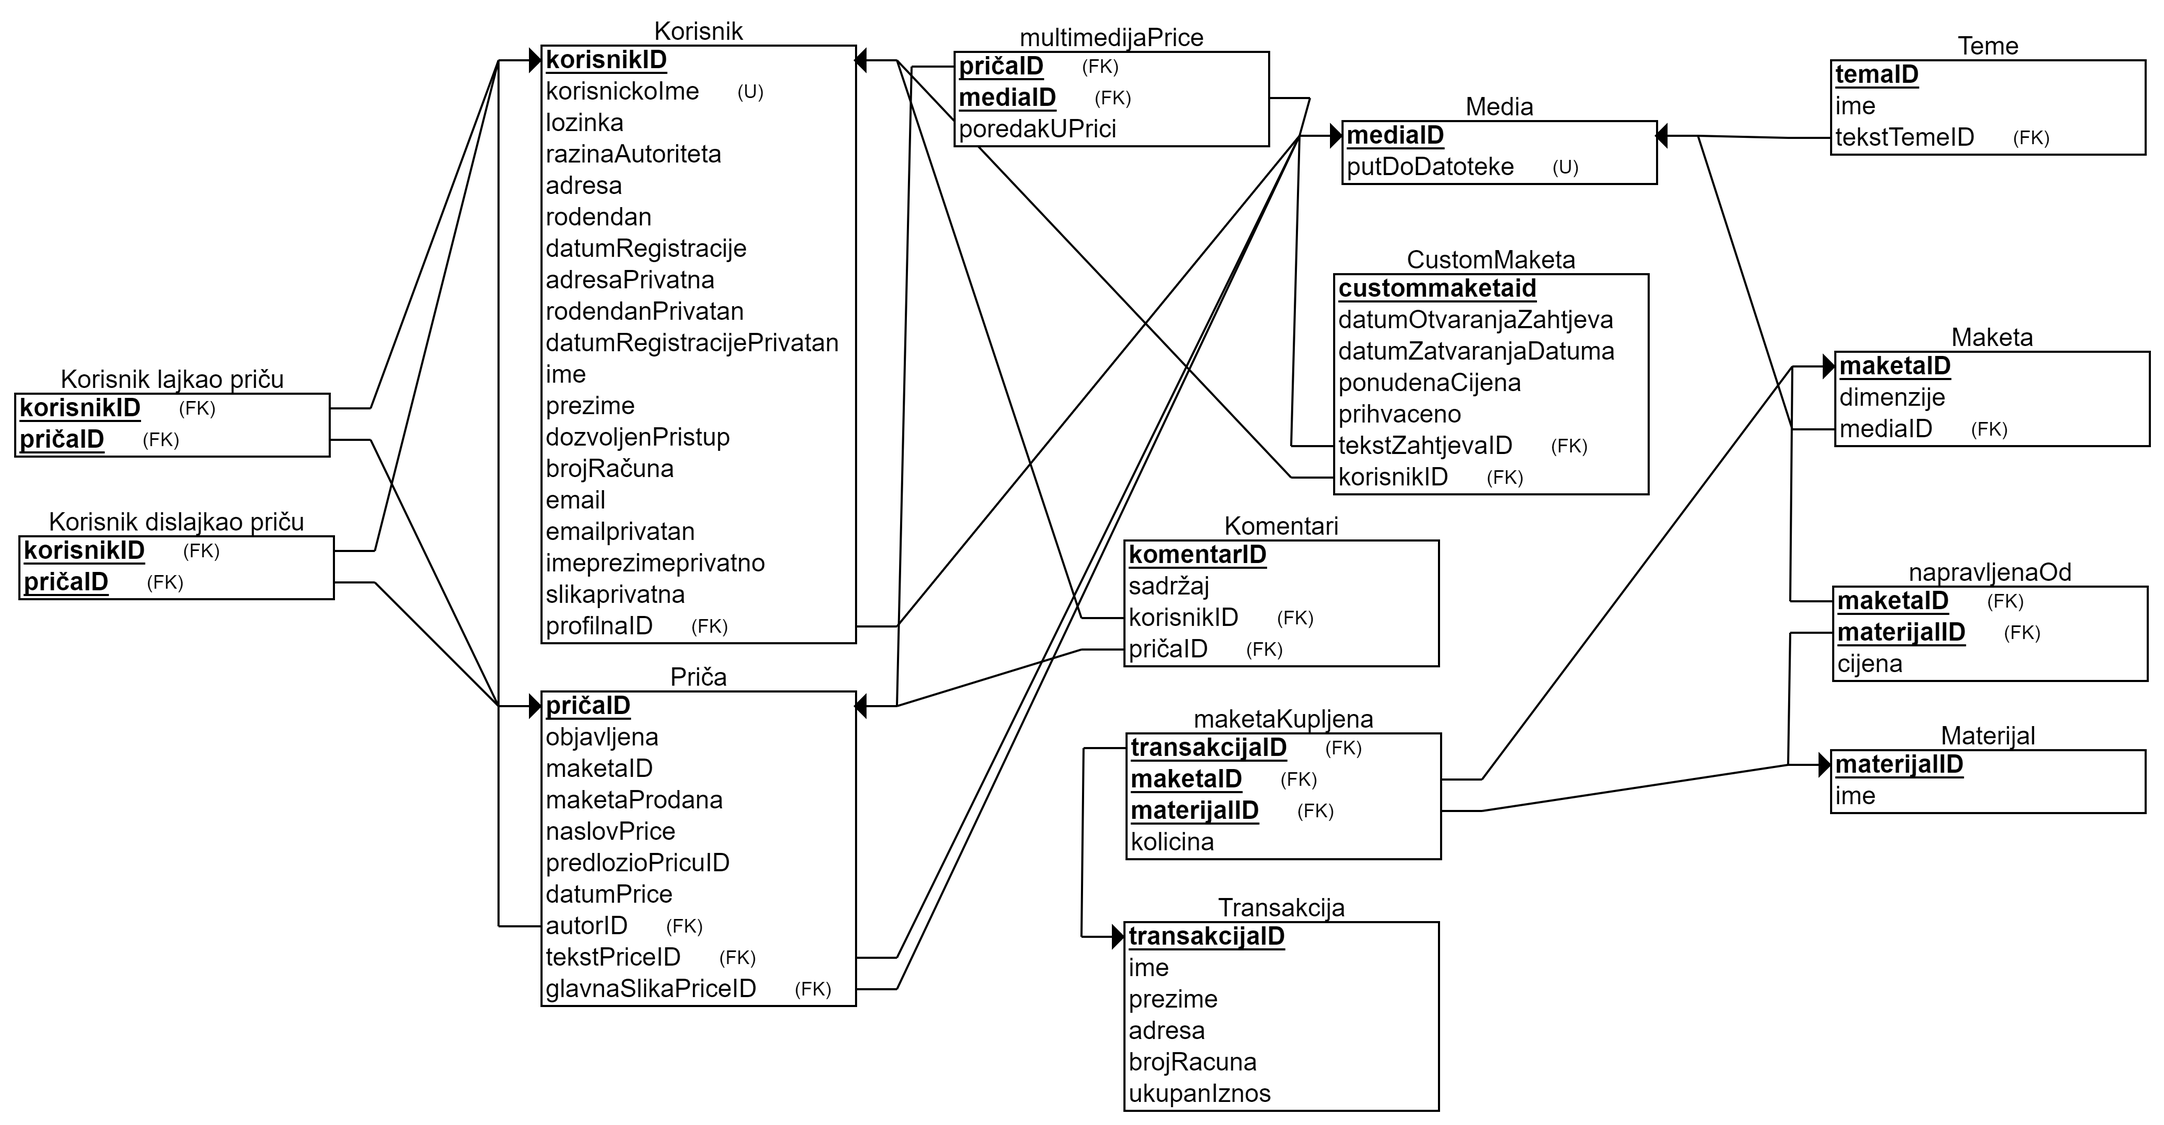
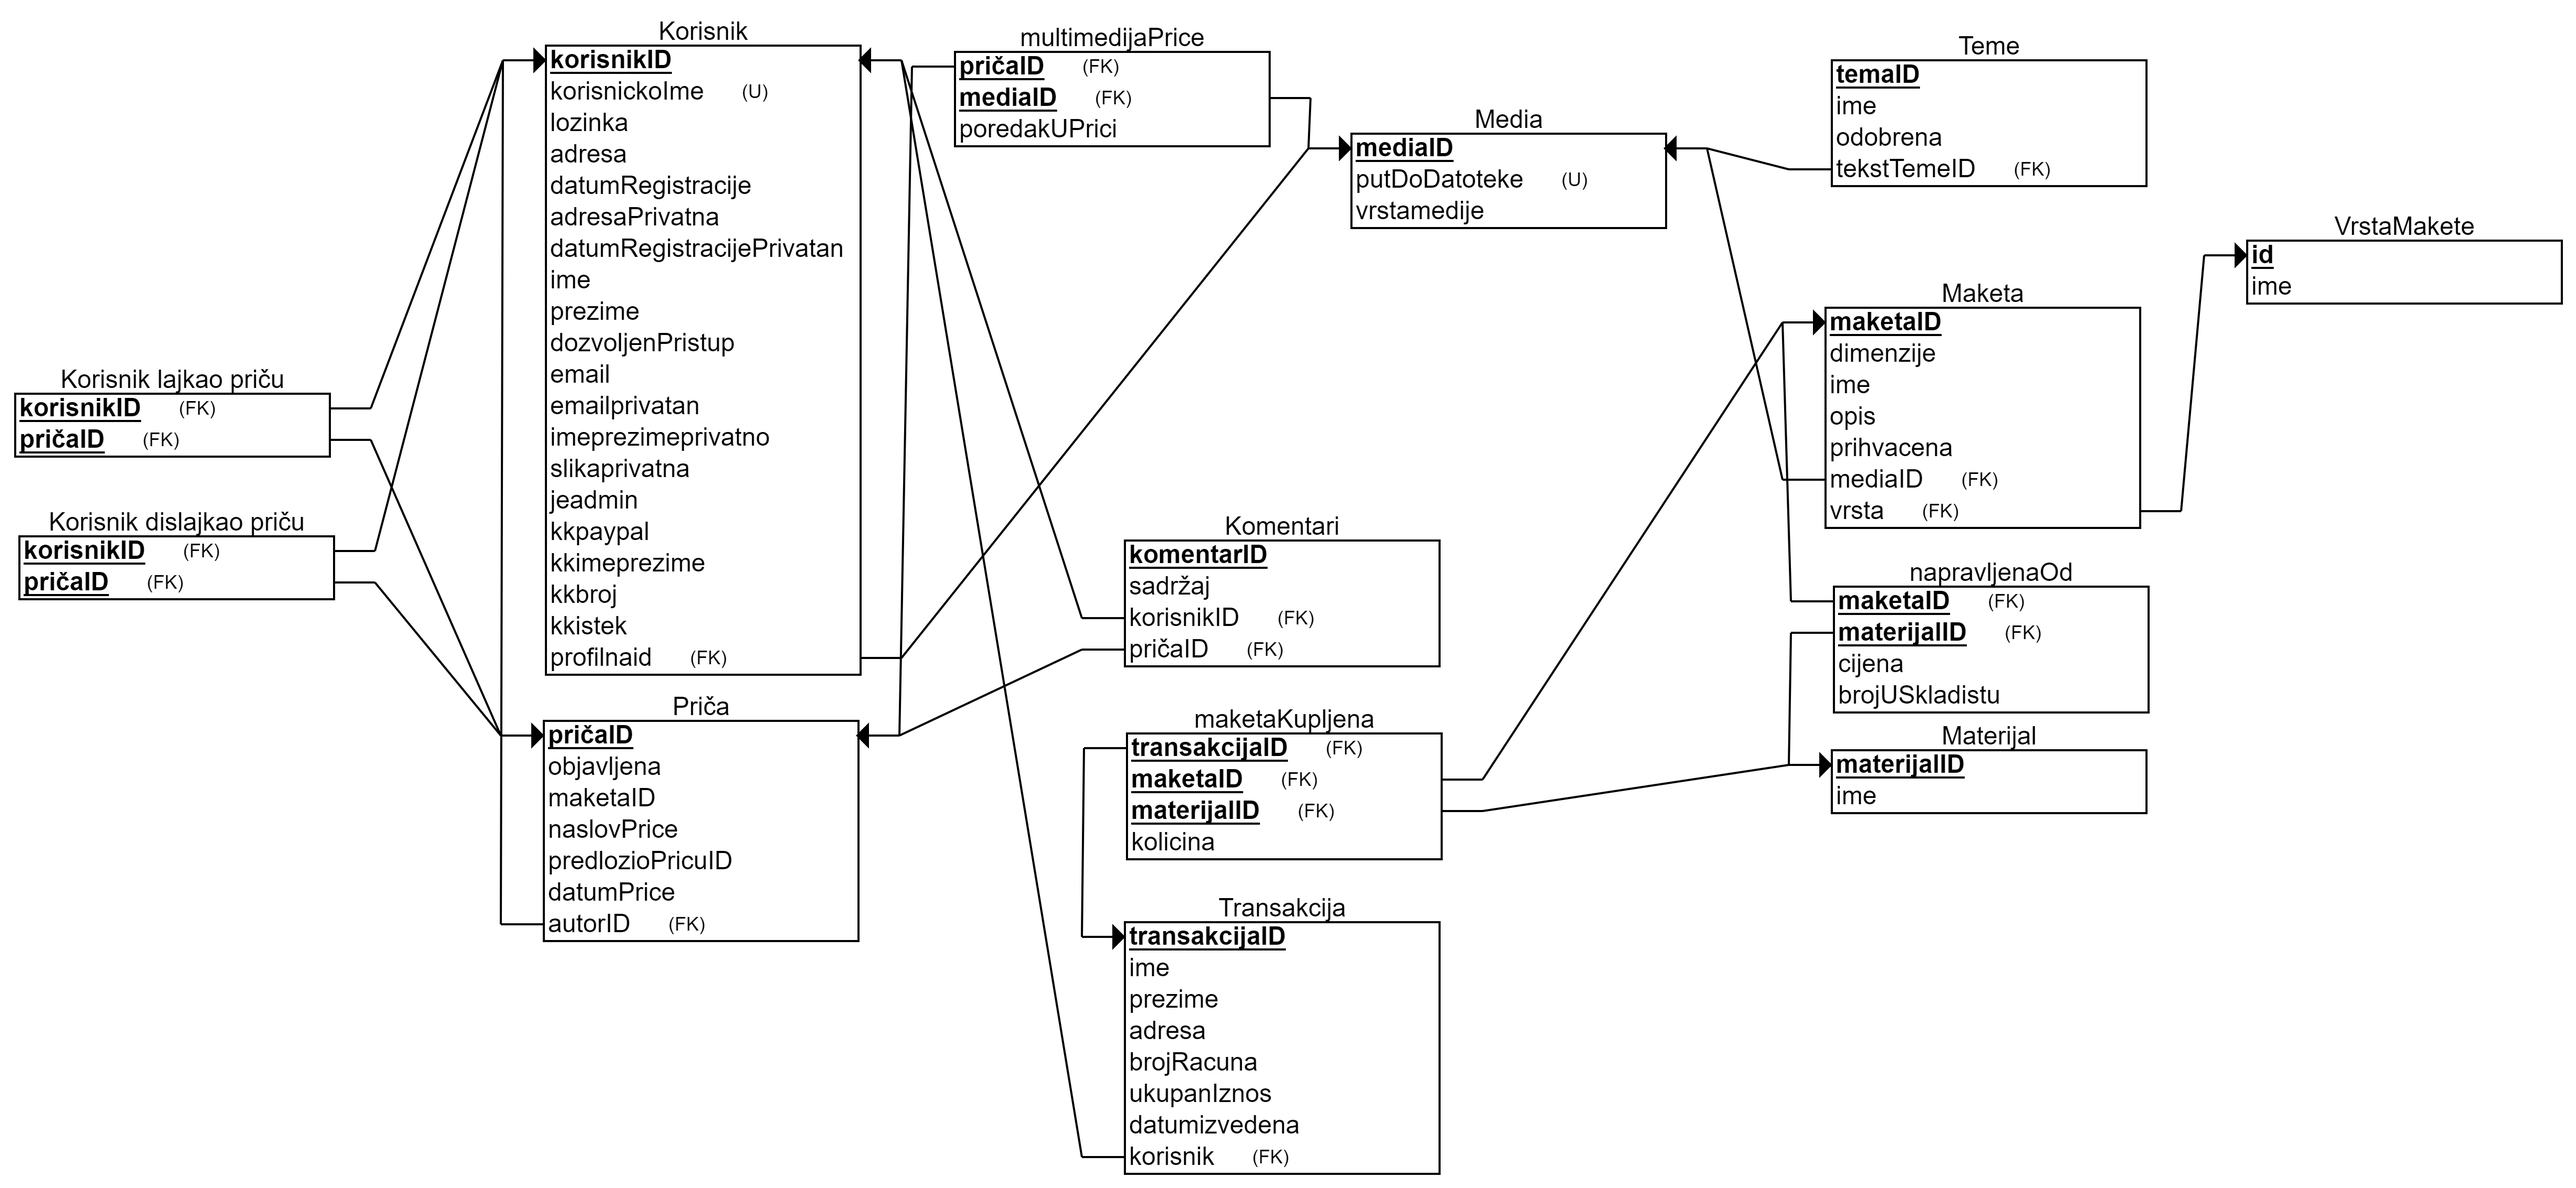
Baza dokumentacija

diff --git a/dokumentacija/Arhitektura.tex b/dokumentacija/Arhitektura.tex
@@ -53,22 +53,26 @@
 					email	& VARCHAR &  Korisnikov e-mail  (maksimalno 100 znakova). \\ \hline
 					korisnickoime & VARCHAR & Ime koje predstavlja korisnika na stranici (maksimalno 20 znakova). \\ \hline 
 					lozinka & VARCHAR & Korisnikova lozinka za prijavu (maksimalno 20 znakova).  \\ \hline 
-					razinaautoriteta & INT & Razina autoriteta korisnika. 1 predstavlja korisnika, a 2 admina. \\ \hline 
-					adresa & VARCHAR & Korisnikova adresa (maksimalno 100 znakova). \\ \hline 
-					rodendan & DATE & Datum korisnikovog rođendana.  \\ \hline 
+					jeadmin & BOOL & Ima li korisnik ovlasti administratora? \\ \hline 
+					adresa & VARCHAR & Korisnikova adresa (maksimalno 100 znakova). \\ \hline  
 					datumregistracije & DATE & Datum korisnikove registracije.  \\ \hline 
 					adresaprivatna & BOOL & Želi li korisnik javno prikazati svoju adresu na svome profilu? \\ \hline 
-					rodendanprivatan & BOOL & Želi li korisnik javno prikazati svoj rođendan na svome profilu?   \\ \hline
 					datumregistracije
 					privatan & BOOL & Želi li korisnik javno prikazati svoj datum registracije na svome profilu?  \\ \hline 
+					slikaprivatna & BOOL & Želi li korisnik javno prikazati svoju slie ime i prezime?  \\ \hline 
+					emailprivatan & BOOL & Želi li korisnik javno prikazati svoj e-mail na svome profilu?   \\ \hline 
+					imeprezimeprivatno & BOOL & Želi li korisnik javno prikazati svoje ime i prezime na svome profilu?  \\ \hline 	 
 					ime & VARCHAR &  Korisnikovo ime (maksimalno 50 znakova).  \\ \hline 
 					prezime  & VARCHAR & Korisnikovo prezime (maksimalno 50 znakova).  \\ \hline 
 					dozvoljenpristup & BOOL & Ima li korisnik dozvoljen pristup stranici?  \\ \hline 
-					brojracuna & VARCHAR & Broj bankovnog računa korisnika. (21 znak)  \\ \hline
+					kkpaypal & BOOL & Plaća li korisnik paypalom?  \\ \hline 
+					kkbroj & VARCHAR & Broj kreditne kartice korisnika. (16 znakova)  \\ \hline
+					kkimeprezime & VARCHAR & Ime i prezime na kreditnoj kartici korisnika. (maksimalno 100 znakova)  \\ \hline
+					kkistek & VARCHAR & Mjesec i godina isteka kreditne kartice. (5 znakova)  \\ \hline
+					\cellcolor{LightBlue} 
 					\cellcolor{LightBlue} 
 					profilnaid & INT & Redni broj medijske datoteke koja sadrži korisnikovu profilnu fotografiju. (strani ključ)  \\ \hline 
-					emailprivatan & BOOL & Želi li korisnik javno prikazati svoj e-mail na svome profilu?   \\ \hline 
-					imeprezimeprivatno & BOOL & Želi li korisnik javno prikazati svoje ime i prezime na svome profilu?  \\ \hline 					
+									
 					
 				\end{longtabu}
 			
@@ -102,7 +106,7 @@
 				
 				\hline 
 				\endlastfoot
-				
+				\cellcolor{LightGreen}id & INT	&  	Redni broj unosa. (primarni ključ)	\\ \hline
 				\cellcolor{LightBlue}
 				korisnikid & INT & Redni broj korisnika koji je označio sa "ne sviđa mi se". (strani ključ) \\ \hline 
 				\cellcolor{LightBlue}
@@ -121,6 +125,7 @@
 					\hline 
 					\endlastfoot
 					
+					\cellcolor{LightGreen}id & INT	&  	Redni broj unosa. (primarni ključ)	\\ \hline
 					\cellcolor{LightBlue}
 					korisnikid & INT & Redni broj korisnika koji je označio priču sa "sviđa mi se". (strani ključ) \\ \hline 
 					\cellcolor{LightBlue}
@@ -140,10 +145,15 @@
 				\endlastfoot
 				
 				\cellcolor{LightGreen}maketaid & INT	&  	Redni broj makete (primarni ključ). 	\\ \hline
-				\cellcolor{LightBlue}
+				ime & VARCHAR & Ime makete. (100 znakova) \\ \hline 
 				dimenzije & VARCHAR & Dimenzije makete u centimetrima. \\ \hline 
+				opis & VARCHAR & Opis makete. (160 znakova) \\ \hline 
 				\cellcolor{LightBlue}
 				mediaid & INT & Redni broj medijske datoteke koja sadrži sliku makete. (strani ključ) \\ \hline 	
+				\cellcolor{LightBlue}
+				vrsta & INT & Vrsta makete. (strani ključ) \\ \hline 
+				prihvacena & BOOL & Je li maketa prihvaćena?  \\ \hline 
+					
 				
 			\end{longtabu}
 		
@@ -165,7 +175,7 @@
 				\cellcolor{LightBlue}
 				materijalid & INT & Redni broj materijala od kojeg je izgrađena navedena maketa. (strani ključ) \\ \hline 	
 				\cellcolor{LightBlue}
-				maketaid & INT & Redni broj transakcije u pitanju. (strani ključ) \\ \hline 
+				transakcijaid & INT & Redni broj transakcije u pitanju. (strani ključ) \\ \hline 
 				
 			\end{longtabu}
 		
@@ -196,7 +206,8 @@
 			\hline 
 			\endlastfoot
 			
-			\cellcolor{LightGreen}mediaid & INT	&  	Redni broj medijske datoteke (primarni ključ). 	\\      \hline			
+			\cellcolor{LightGreen}mediaid & INT	&  	Redni broj medijske datoteke (primarni ključ). 	\\      \hline		
+			vrstamedije & VARCHAR & Tip datoteke. (slika, tekst, video) \\ \hline 	
 			putdodatoteke & VARCHAR & Relativni put do datoteke u repozitoriju. \\ \hline 
 			
 			\end{longtabu}
@@ -211,7 +222,7 @@
 				
 				\hline 
 				\endlastfoot
-						
+				\cellcolor{LightGreen}id & INT	&  	Redni broj multimedije u priči. (primarni ključ). 	\\      \hline			
 				poredakuprici & INT & Broj u poretku po kojem se slaže multimedija u nekoj priči. \\ \hline 
 				\cellcolor{LightBlue}
 				mediaid & INT & Redni broj medijske datoteke u pitanju. (strani ključ) \\ \hline 
@@ -230,12 +241,13 @@
 			
 			\hline 
 			\endlastfoot
-						
+			\cellcolor{LightGreen}id & INT	&  	Redni broj unosa. (primarni ključ). 	\\      \hline			
 			cijena & FLOAT & Cijena makete napravljene od specifičnog materijala. \\ \hline 
 			\cellcolor{LightBlue}
 			maketaid & INT & Redni broj makete u pitanju. (strani ključ) \\ \hline 
 			\cellcolor{LightBlue}
 			materijalid & INT & Redni broj materijala u pitanju. (strani ključ) \\ \hline 
+			brojuskladistu & INT & Broj dostupnih maketa u skladištu. \\ \hline 
 			
 		\end{longtabu}
 	
@@ -254,15 +266,12 @@
 				naslovprice & VARCHAR & Naslov priče (maksimalno 100 znakova). \\ \hline 
 				datumprice & DATE & Datum objave priče. \\ \hline
 				objavljena & BOOL & Je li priča objavljena? \\ \hline 
-				maketaprodana & BOOL & Je li maketa iz priče (ako priča sadrži maketu) prodana? \\ \hline 
 				\cellcolor{LightBlue}
 				maketaid & INT & Redni broj makete u pitanju. (strani ključ) \\ \hline 
 				\cellcolor{LightBlue}
 				autorid & INT & Redni broj autora priču. (strani ključ) \\ \hline 
 				\cellcolor{LightBlue}
-				predloziopricuid & INT & Redni broj osobe koja je predložila priču. (strani ključ) \\ \hline 
-				\cellcolor{LightBlue}
-				tekstpriceid & INT & Redni broj medijske datoteke koja sadrži tekst priče. (strani ključ) \\ \hline 
+				predloziopricuid & INT & Redni broj osobe koja je predložila priču. (strani ključ)
 				
 			\end{longtabu}
 		
@@ -281,6 +290,7 @@
 			ime & VARCHAR & Ime teme (maksimalno 100 znakova). \\ \hline 		
 			\cellcolor{LightBlue}
 			teksttemeid & INT & Redni broj medijske datoteke koja sadrži tekst teme. (strani ključ) \\ \hline 
+			odobrena & BOOL & Je li priča objavljena? \\ \hline 
 			
 		\end{longtabu}
 	
@@ -301,32 +311,24 @@
 			adresa & VARCHAR & Adresa kupca (maksimalno 100 znakova). \\ \hline 	
 			brojracuna & VARCHAR & Broj računa kupca ( 21 znak). \\ \hline 	
 			ukupaniznos & FLOAT & Ukupan iznos transakcije \\ \hline 
+			\cellcolor{LightBlue}
+			korisnik & INT & Redni broj korisnika koji je pokrenuo transakciju. (strani ključ) \\ \hline 
+			datumizvedena & DATE & Datum transakcije.  \\ \hline 
 			
 		\end{longtabu}
 	
 		\begin{longtabu} to \textwidth {|X[10, l]|X[6, l]|X[20, l]|}
 			
-			\hline \multicolumn{3}{|c|}{\textbf{CustomMaketa}}	 \\[3pt] \hline
+			\hline \multicolumn{3}{|c|}{\textbf{VrstaMakete}}	 \\[3pt] \hline
 			\endfirsthead
 			
-			\hline \multicolumn{3}{|c|}{\textbf{CustomMaketa}}	 \\[3pt] \hline
+			\hline \multicolumn{3}{|c|}{\textbf{VrstaMakete}}	 \\[3pt] \hline
 			\endhead
 			
 			\hline 
 			\endlastfoot
-			
-			\cellcolor{LightGreen}custommaketaid & INT	&  	Redni broj makete na zahtjev (primarni ključ). 	\\      \hline			
-			datumotvaranja
-			zahtjeva & DATE & Datum slanja zahtjeva za maketu. \\ \hline 
-			datumzatvaranja
-			zahtjeva & DATE & Datum zaključavanja zahtjeva za maketu. \\ \hline 
-			ponudenacijena & FLOAT & Ponuđena cijena za navedenu maketu. \\ \hline 
-			prihvaceno & BOOL & Je li korisnik prihvatio ponuđenu cijenu? \\ \hline 
-			\cellcolor{LightBlue}
-			korisnikid & INT & Redni broj korisnika koji šalje zahtjev. (strani ključ) \\ \hline 
-			\cellcolor{LightBlue}
-			tekstzahtjevaid & INT & Redni broj medijske datoteke koja sadrži tekst zahtjeva. (strani ključ) \\ \hline 	
-			
+			\cellcolor{LightGreen}id & INT	&  	Redni broj vrste makete. (primarni ključ). 	\\      \hline			
+			ime & VARCHAR & Ime vrste makete. (maksimalno 20 znakova). \\ \hline 	
 			
 		\end{longtabu}
 		
